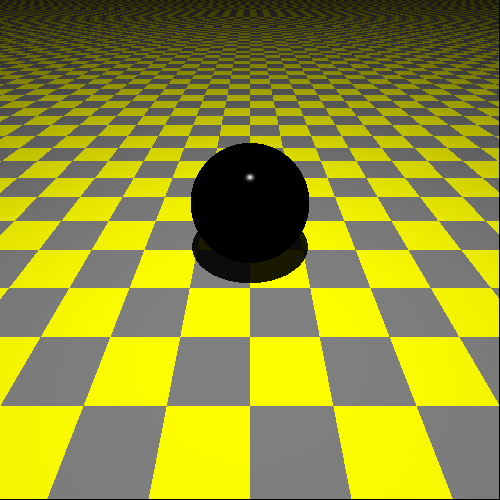
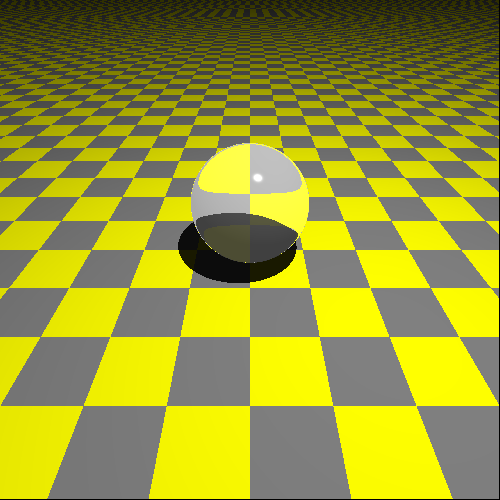
updates

Changed region(s): [[0.36, 0.27, 0.63, 0.57]]

diff --git a/main.go b/main.go
@@ -659,11 +659,11 @@ func glass() {
 
 	// setup world, default light and camera
 	w := tracer.NewDefaultWorld(width, height)
-	w.Config.MaxRecusions = 1
+	w.Config.MaxRecusions = 5
 
 	// override light here
 	w.SetLights([]tracer.Light{
-		tracer.NewPointLight(tracer.NewPoint(0, 10, -2), tracer.NewColor(1, 1, 1)),
+		tracer.NewPointLight(tracer.NewPoint(2, 10, -2), tracer.NewColor(1, 1, 1)),
 	})
 
 	// where the camera is and where it's pointing; also which way is "up"
@@ -685,9 +685,12 @@ func glass() {
 
 	ball := tracer.NewGlassSphere()
 	ball.SetTransform(tracer.IdentityMatrix().Translate(0, 1, 0))
-	ball.Material().Color = tracer.Black()
-	ball.Material().Diffuse = 0
-	ball.Material().Ambient = 0
+	ball.Material().Color = tracer.White()
+	ball.Material().Diffuse = 0.1
+	ball.Material().Ambient = 0.1
+	ball.Material().Reflective = 0
+	ball.Material().RefractiveIndex = 1.1
+	ball.Material().Transparency = 1
 	w.AddObject(ball)
 
 	canvas := w.Render()
